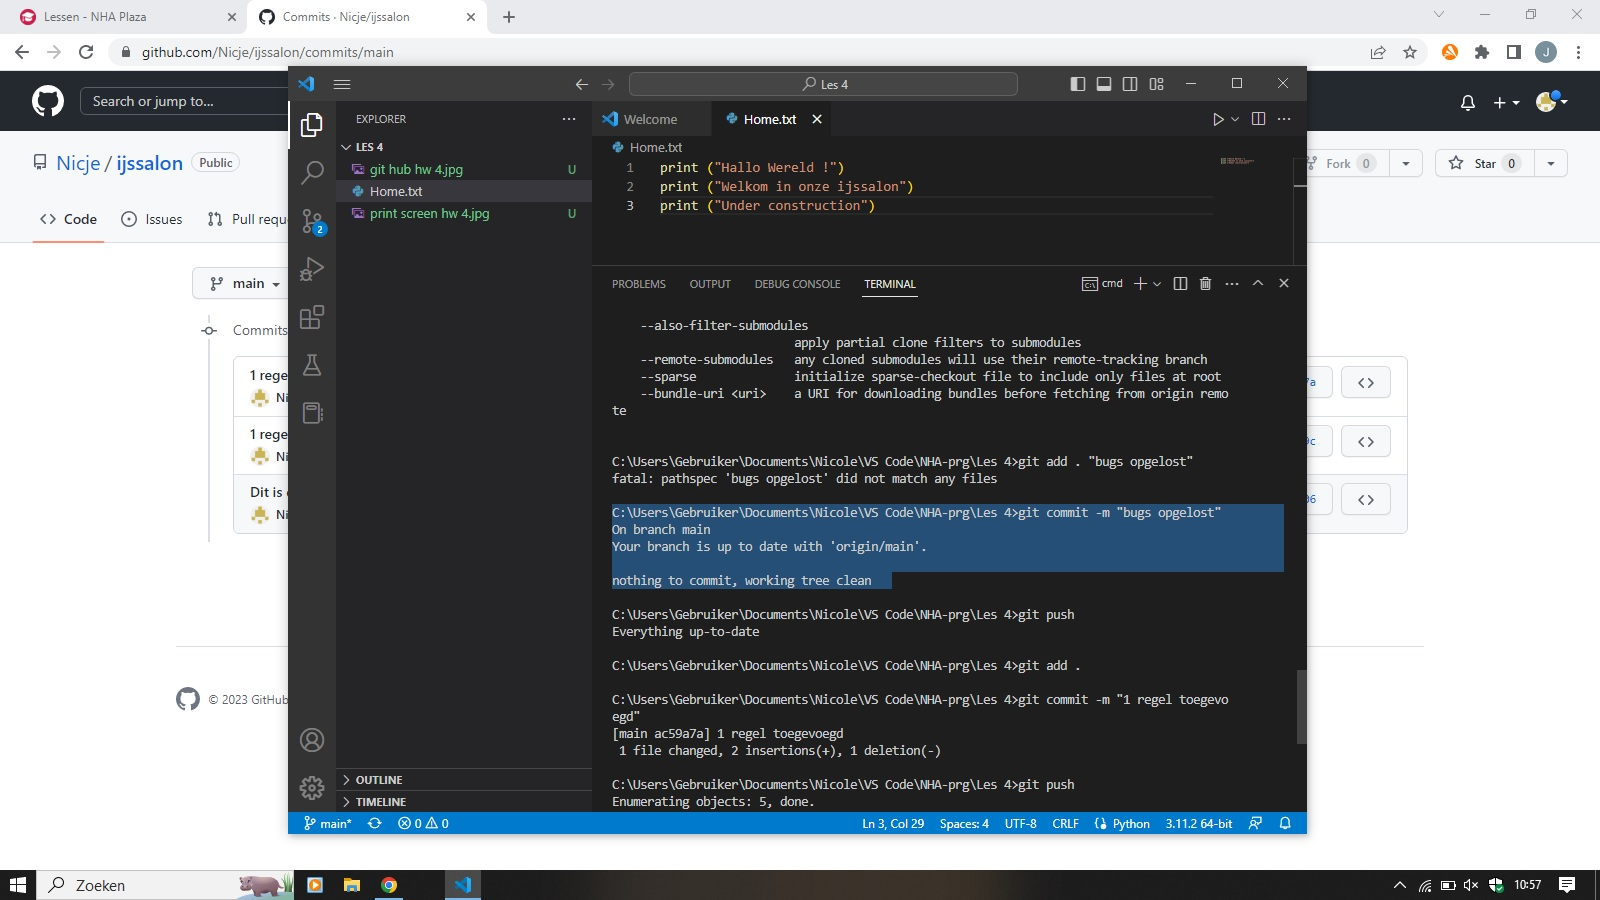
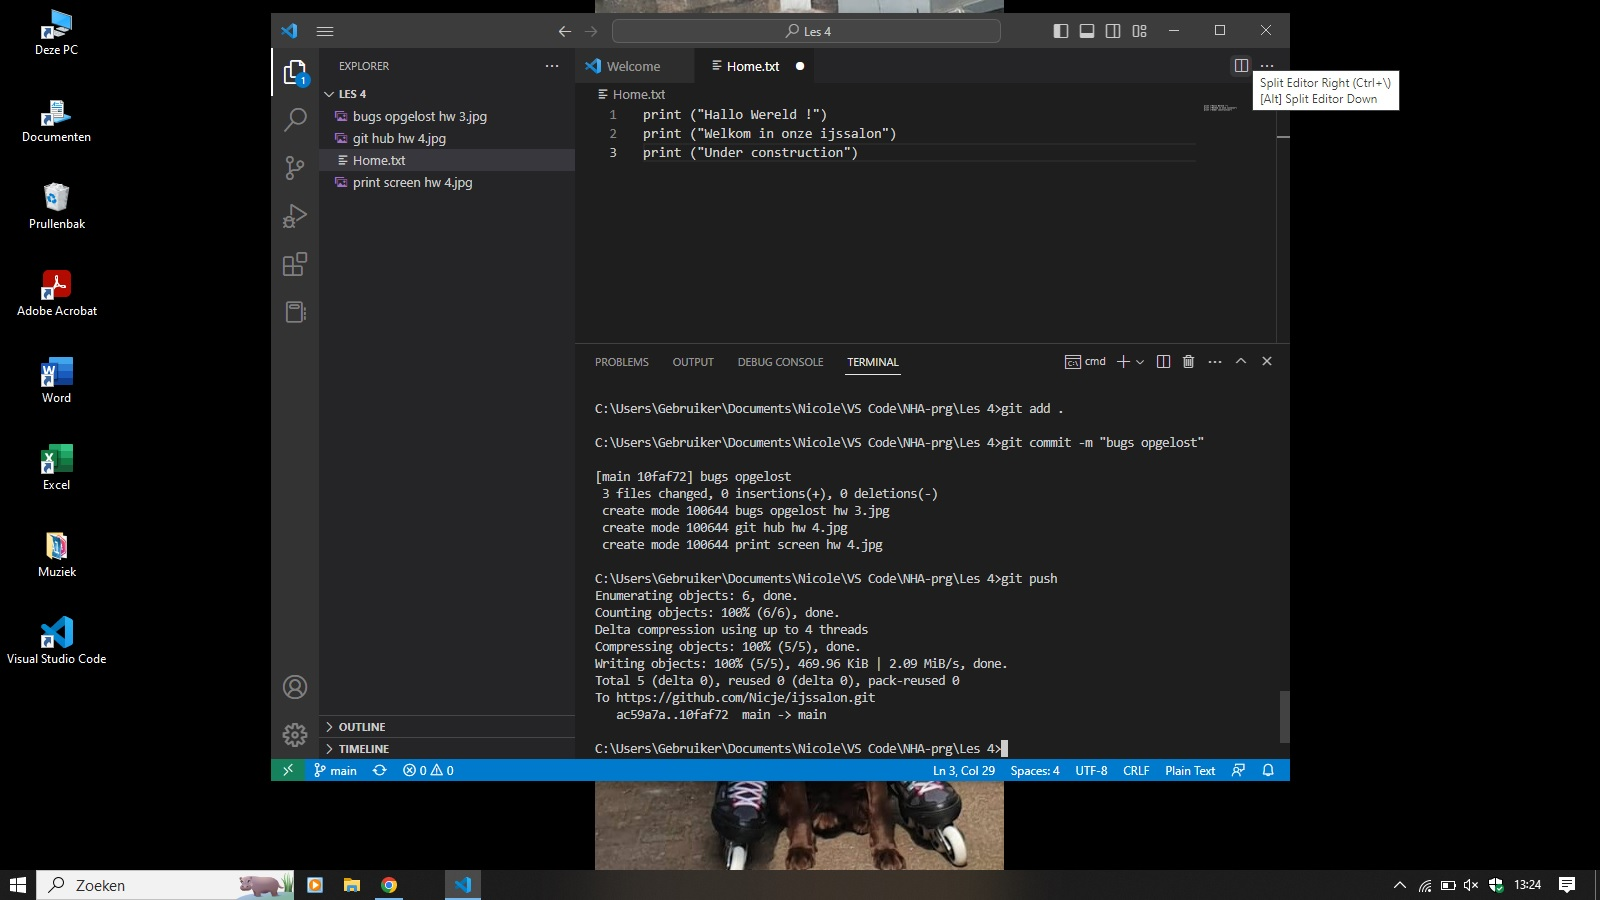
bugs opgelost

diff --git a/Home.py b/Home.py
@@ -1,0 +1,3 @@
+print "Hallo Wereld !"
+print "Welkom in onze ijssalon"
+print "Under construction"
